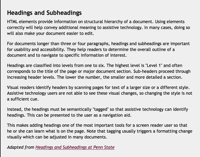
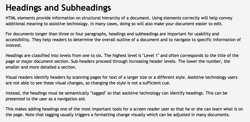
Improving modal and headings styling

diff --git a/source/stylesheets/main.scss b/source/stylesheets/main.scss
@@ -601,6 +601,12 @@ $wai_grey: #333333;
       }
     }
     .heading-structure {
+      figcaption {
+        background: #f4f4f4 none repeat scroll 0 0;
+        box-shadow: 0 0 2px 0 #e0e0e0;
+        padding: 1em;
+        width: 60%;
+      }
       h2, h3, h4 {
         color: $wai_fg;
         border-bottom: none;
@@ -612,13 +618,13 @@ $wai_grey: #333333;
       }
       
       h2 {
-        font-size: 1.4em;
+        font-size: 2em;
       }
       h3 {
-        font-size: 1.2em;
+        font-size: 1.6em;
       }
       h4 {
-        font-size: 1.0em;
+        font-size: 1.4em;
       }
     }
     .text-alternative {

diff --git a/source/stylesheets/_modal.scss b/source/stylesheets/_modal.scss
@@ -4,7 +4,7 @@
   left: 0;
   display: flex;
   overflow: auto;
-  padding: 1.5em !important;
+  padding: 0.5em !important;
   position: fixed;
   top: 0;
   transition: opacity .2s;
